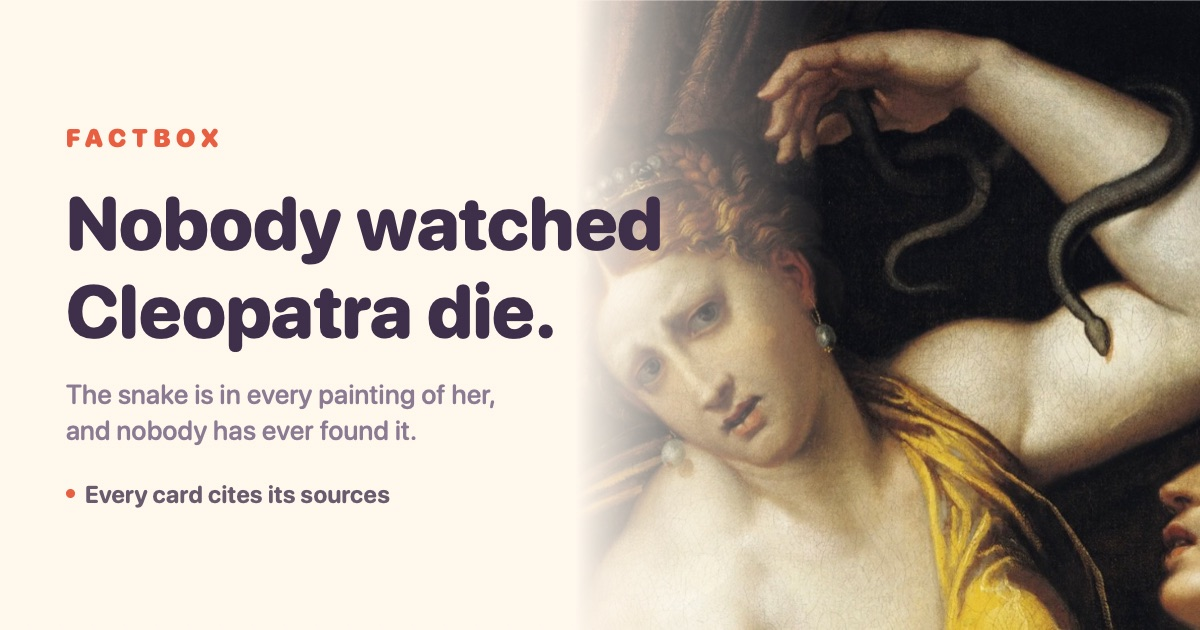
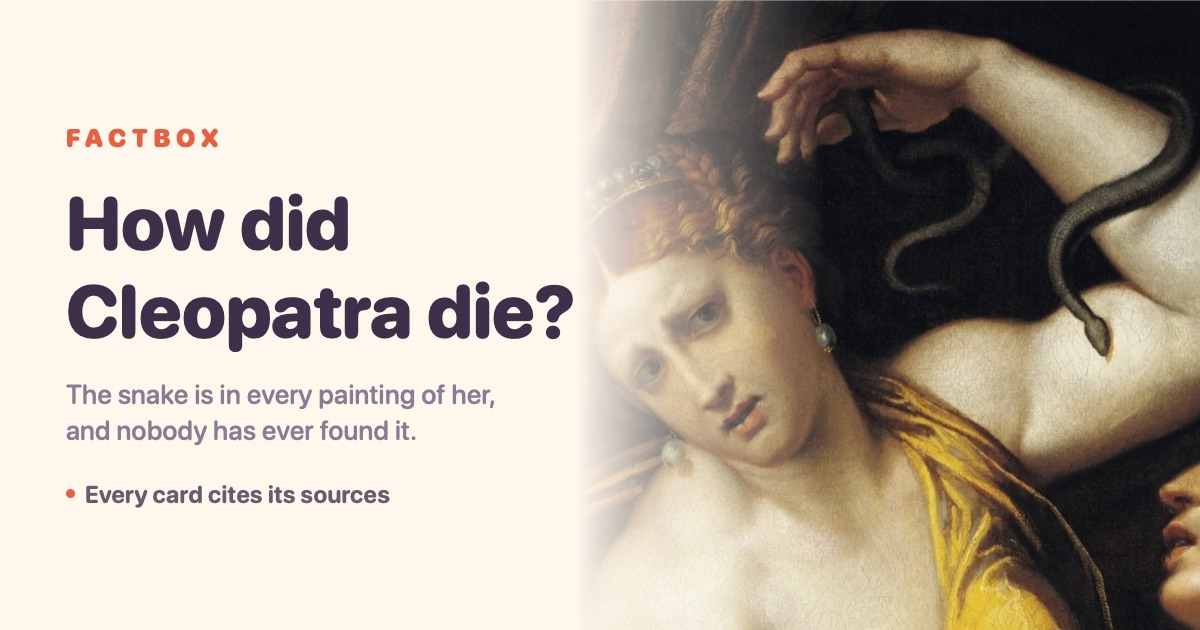
Use the co-founder's title everywhere, including the share card
The page title, the Open Graph tags and the 1200x630 link preview still
carried the old headline, so a shared link advertised a line the story no
longer opens with. All three now read "How did Cleopatra die?" with her
subtitle underneath, and the card was re-rendered to match.

Changed region(s): [[0.0617, 0.3016, 0.555, 0.4222], [0.4317, 0.4524, 0.4933, 0.5429]]

diff --git a/story.html b/story.html
@@ -7,24 +7,24 @@
 <!-- Link preview. Absolute URLs are required — scrapers do not resolve
      relative paths. When the site moves to its own domain, BASE below is
      the only thing that changes. -->
-<meta name="description" content="The snake is in every painting of her, and nobody has ever found it. A three-minute history story — every card cites its sources.">
+<meta name="description" content="The snake is in every painting of her, and nobody has ever found it. A three-minute history story, every card sourced.">
 <meta property="og:type" content="article">
 <meta property="og:site_name" content="Factbox">
-<meta property="og:title" content="Nobody watched Cleopatra die.">
-<meta property="og:description" content="The snake is in every painting of her, and nobody has ever found it. A three-minute history story — every card cites its sources.">
+<meta property="og:title" content="How did Cleopatra die?">
+<meta property="og:description" content="The snake is in every painting of her, and nobody has ever found it. A three-minute history story, every card sourced.">
 <meta property="og:url" content="https://hassanjkhan.github.io/factbox/story.html">
 <meta property="og:image" content="https://hassanjkhan.github.io/factbox/img/share.jpg">
 <meta property="og:image:type" content="image/jpeg">
 <meta property="og:image:width" content="1200">
 <meta property="og:image:height" content="630">
-<meta property="og:image:alt" content="An old-master painting of Cleopatra with an asp, beside the words “Nobody watched Cleopatra die.”">
+<meta property="og:image:alt" content="An old-master painting of Cleopatra with an asp, beside the words “How did Cleopatra die?”">
 <meta name="twitter:card" content="summary_large_image">
-<meta name="twitter:title" content="Nobody watched Cleopatra die.">
-<meta name="twitter:description" content="The snake is in every painting of her, and nobody has ever found it. A three-minute history story — every card cites its sources.">
+<meta name="twitter:title" content="How did Cleopatra die?">
+<meta name="twitter:description" content="The snake is in every painting of her, and nobody has ever found it. A three-minute history story, every card sourced.">
 <meta name="twitter:image" content="https://hassanjkhan.github.io/factbox/img/share.jpg">
-<meta name="twitter:image:alt" content="An old-master painting of Cleopatra with an asp, beside the words “Nobody watched Cleopatra die.”">
+<meta name="twitter:image:alt" content="An old-master painting of Cleopatra with an asp, beside the words “How did Cleopatra die?”">
 
-<title>Nobody Watched Cleopatra Die</title>
+<title>How did Cleopatra die? — Factbox</title>
 
 <style>
 /* ==========================================================================
